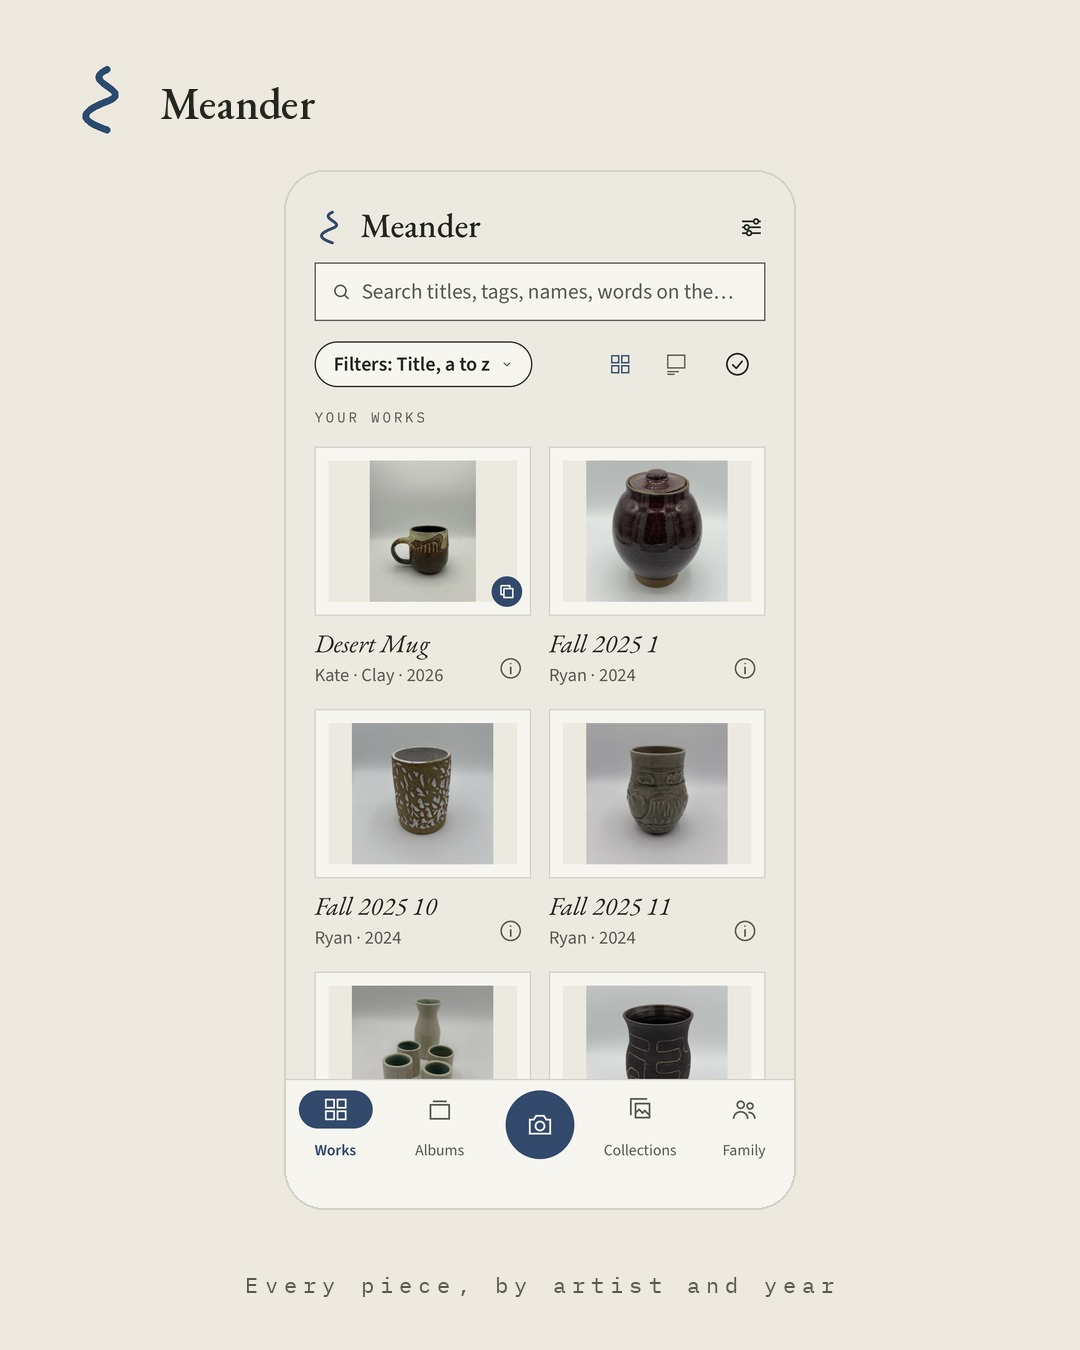
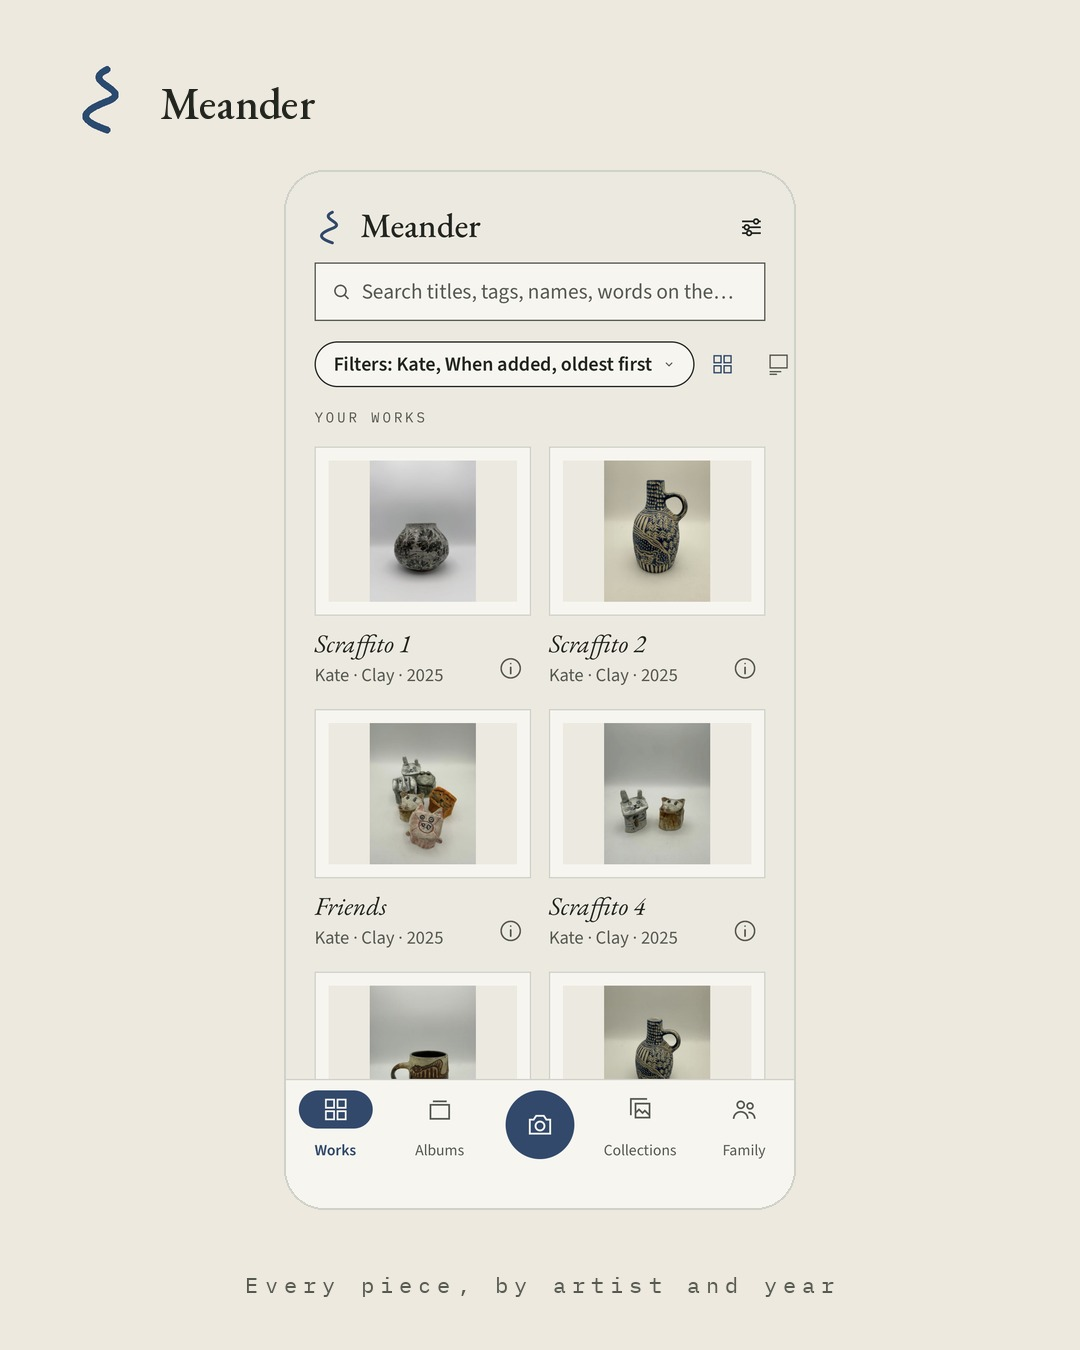
Works screen from the newer screenshot, and the piece page as a slide

diff --git a/meander/index.html b/meander/index.html
@@ -52,7 +52,7 @@
 
   <div class="screens" aria-label="Screens from the iPhone app">
     <figure>
-      <img src="/img/screens/works.png" width="600" height="1220" alt="Works: a grid of pieces, each with its title, artist and year" loading="lazy">
+      <img src="/img/screens/works.png" width="600" height="1220" alt="Works: a grid of one artist's clay pieces, each with its title, medium and year" loading="lazy">
       <figcaption>Works</figcaption>
     </figure>
     <figure>

diff --git a/img/instagram/README.md b/img/instagram/README.md
@@ -18,7 +18,7 @@ Image: `01-friends.jpg` alone, or the brand kit's `instagram-post.png` (the mark
 
 ## Post 2: the tease and the call for testers
 
-Slides: `01-friends.jpg`, then `02-works.jpg`.
+Slides: `01-friends.jpg`, `02-works.jpg` (Kate's works), then `02b-piece.jpg` (the Friends piece page).
 
 > Meander is an app for the art your family makes. Photograph a piece, say whose it is, and it is
 > kept by artist and year. Private, free, no ads.
